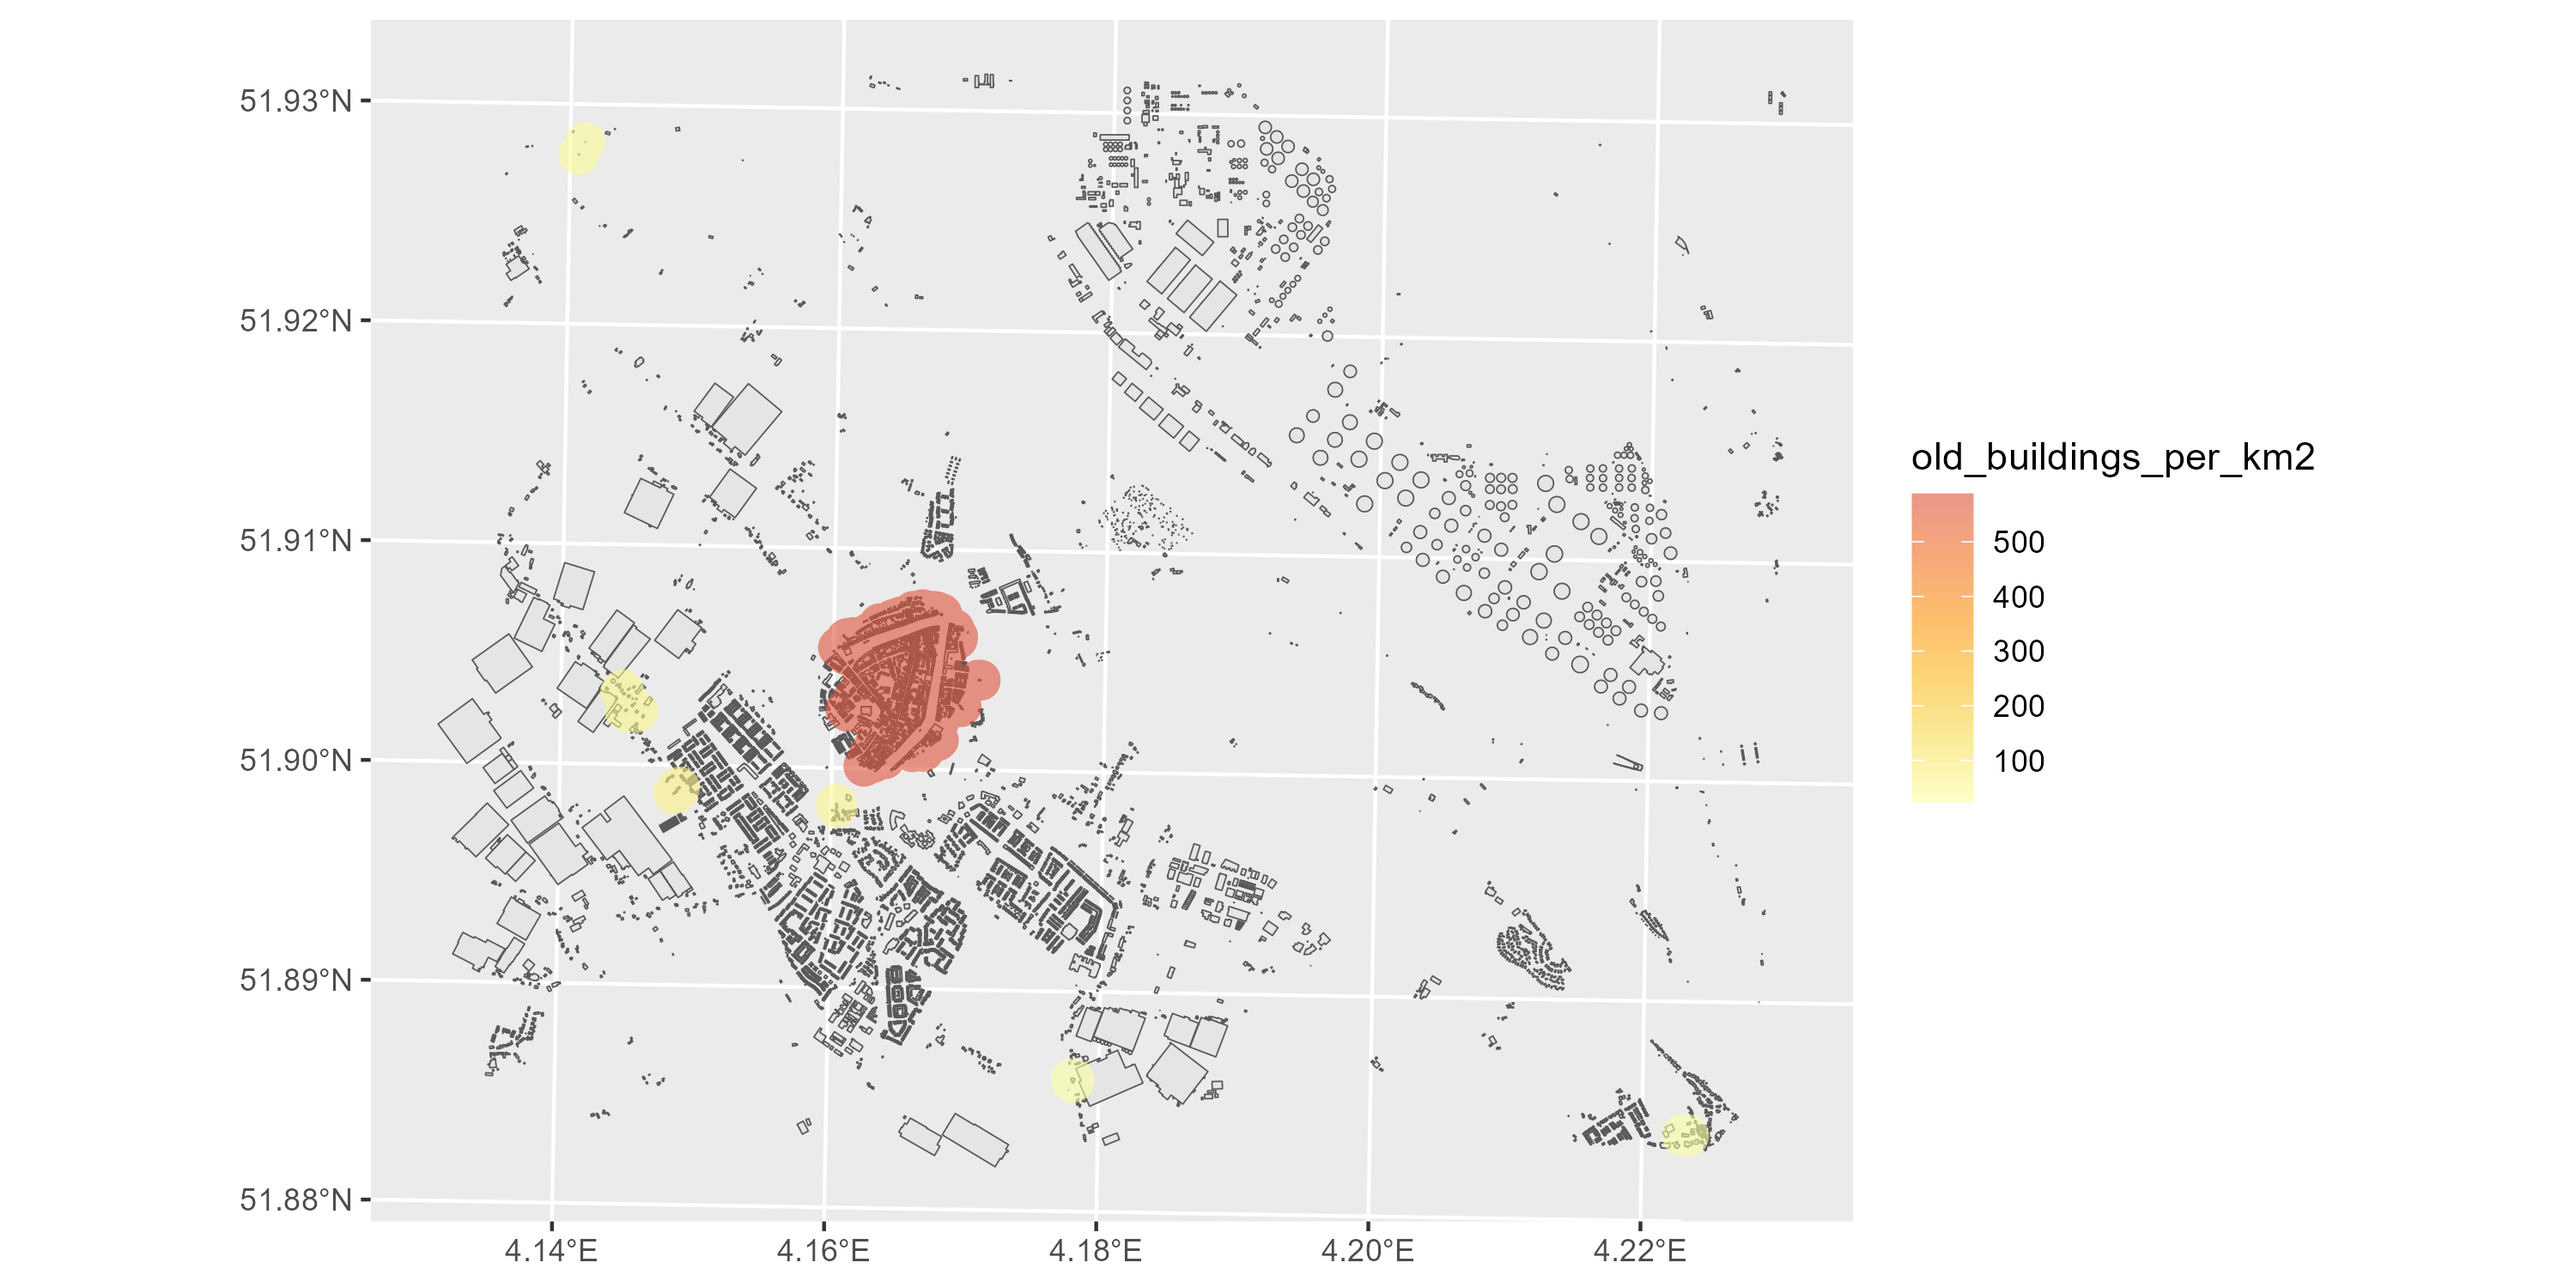
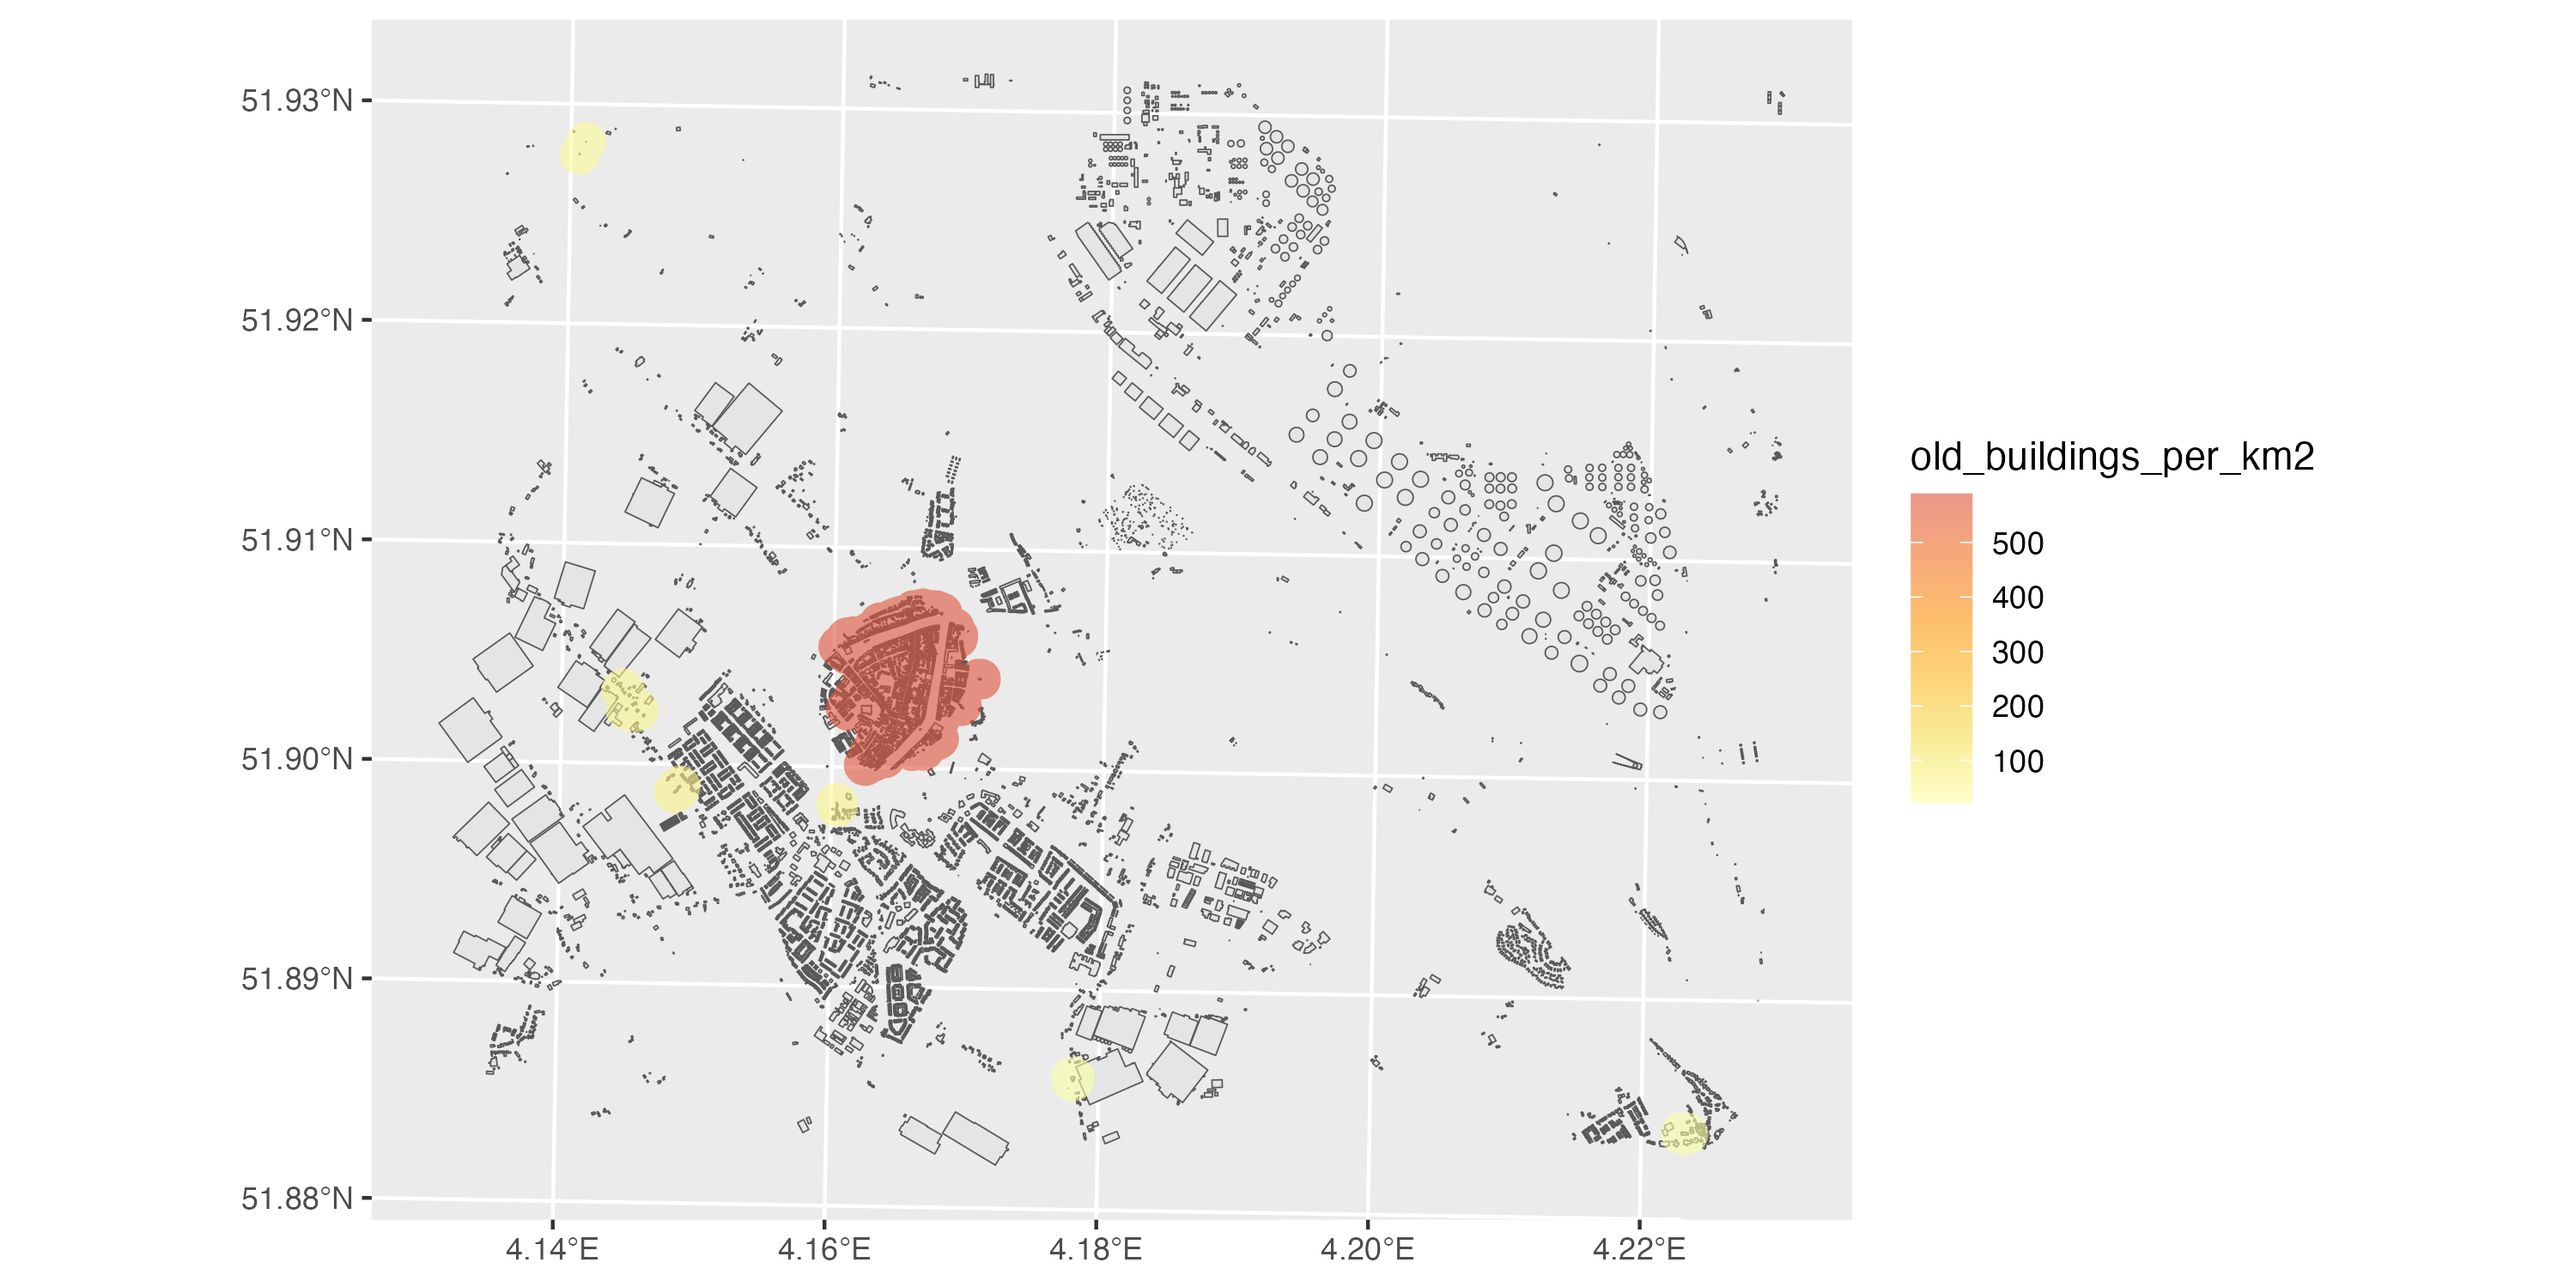
Add comptetition slide

diff --git a/start-260223.html b/start-260223.html
@@ -6,8 +6,8 @@
 <script src="start-260223_files/libs/quarto-html/tippy.umd.min.js"></script>
 <link href="start-260223_files/libs/quarto-html/tippy.css" rel="stylesheet">
 <link href="start-260223_files/libs/quarto-html/light-border.css" rel="stylesheet">
-<link href="start-260223_files/libs/quarto-html/quarto-syntax-highlighting-dc55a5b9e770e841cd82e46aadbfb9b0.css" rel="stylesheet" id="quarto-text-highlighting-styles"><meta charset="utf-8">
-  <meta name="generator" content="quarto-1.8.24">
+<link href="start-260223_files/libs/quarto-html/quarto-syntax-highlighting-845c23b38eaddc0f92fda52bfe77a8c8.css" rel="stylesheet" id="quarto-text-highlighting-styles"><meta charset="utf-8">
+  <meta name="generator" content="quarto-1.9.36">
 
   <meta name="dcterms.date" content="2026-02-23">
   <title>start-260223</title>
@@ -17,6 +17,9 @@
   <link rel="stylesheet" href="start-260223_files/libs/revealjs/dist/reset.css">
   <link rel="stylesheet" href="start-260223_files/libs/revealjs/dist/reveal.css">
   <style>
+    /* Default styles provided by pandoc.
+    ** See https://pandoc.org/MANUAL.html#variables-for-html for config info.
+    */
     code{white-space: pre-wrap;}
     span.smallcaps{font-variant: small-caps;}
     div.columns{display: flex; gap: min(4vw, 1.5em);}
@@ -29,7 +32,7 @@
       vertical-align: middle;
     }
   </style>
-  <link rel="stylesheet" href="start-260223_files/libs/revealjs/dist/theme/quarto-6c8f08344ad568d193f218055a939edf.css">
+  <link rel="stylesheet" href="start-260223_files/libs/revealjs/dist/theme/quarto-182c84bc9166ac67f54e31e4c988c194.css">
   <link href="start-260223_files/libs/revealjs/plugin/quarto-line-highlight/line-highlight.css" rel="stylesheet">
   <link href="start-260223_files/libs/revealjs/plugin/reveal-menu/menu.css" rel="stylesheet">
   <link href="start-260223_files/libs/revealjs/plugin/reveal-menu/quarto-menu.css" rel="stylesheet">
@@ -331,6 +334,15 @@ Photo by <a href="https://unsplash.com/@markkoenig?utm_content=creditCopyText&am
 </div>
 </div>
 </div>
+</section>
+
+<section id="competition-1" class="title-slide slide level1 center">
+<h1>Competition</h1>
+<ul>
+<li>Some questions will lead to a quizz to be answered as a <strong>group</strong>. Each group writes their answer down.</li>
+<li>Answers will be assessed simultaneously: right answers with lead to an amount of stars related to the difficulty of the question, for each group who has the answer right.</li>
+<li>Groups accumulate stars until the end of the workshop, where the leading group gets an invaluable prize 🏆!</li>
+</ul>
 
 </section>
     </div>
